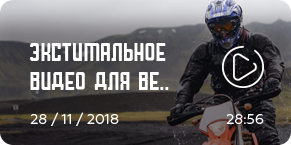
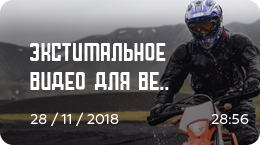
port and footer

diff --git a/index.html b/index.html
@@ -239,10 +239,10 @@
 			</div>
 		</div>
 		<div class='temp hide'>
-			<img src="assets/video2.png" height="100%" width="auto">	
+			<img src="assets/video2.png" height="404" width="auto">	
 			<button class="playbtn js-modal-btn" data-video-id="HMLguRWAMSc"><img src="assets/playbutton.png"></button>
 		</div>
-	</div>	
+	</div>
 </div>
 
 
@@ -301,22 +301,74 @@
 		    	<button id="slideRight" class='scroll'><img src="assets/btns/right.png"></button>
 	    	</div>
 		</div>
+
+
 		<div class='faded'>
 			<div id='overflow'>
-				<button class="play js-modal-btn" id="bookbutton" data-video-id="HMLguRWAMSc"><div><img src="assets/book1.png"></div></button>
-				<div class='d-flex flex-column justify-content-between'>
-					<img src="assets/book2.png">
-					<img src="assets/book3.png">
+				<div class='portfoliocard'>
+					<img src="assets/book1.png">
+					<button class="play js-modal-btn scroll" id="bookbutton" data-video-id="HMLguRWAMSc">
+						<img src="assets/btns/white-play-btn.png">
+					</button>
 				</div>
-				<div><img src="assets/book4.png"></div>
-				<div><img src="assets/book5.png"></div>
-				<div><img src="assets/book1.png"></div>
 				<div class='d-flex flex-column justify-content-between'>
-					<img src="assets/book2.png">
-					<img src="assets/book3.png">
+					<div class='portfoliocard'>
+						<img src="assets/book2.png">
+						<button class="play js-modal-btn scroll" id="bookbutton" data-video-id="HMLguRWAMSc">
+							<img src="assets/btns/white-play-btn.png">
+						</button>
+					</div>
+					<div class='portfoliocard'>
+						<img src="assets/book3.png">
+						<button class="play js-modal-btn scroll" id="bookbutton" data-video-id="HMLguRWAMSc">
+							<img src="assets/btns/white-play-btn.png">
+						</button>
+					</div>
 				</div>
-				<div><img src="assets/book4.png"></div>
-				<div><img src="assets/book5.png"></div>
+				<div class='portfoliocard'>
+					<img src="assets/book4.png">
+					<button class="play js-modal-btn scroll" id="bookbutton" data-video-id="HMLguRWAMSc">
+						<img src="assets/btns/white-play-btn.png">
+					</button>
+				</div>
+				<div class='portfoliocard'>
+					<img src="assets/book5.png">
+					<button class="play js-modal-btn scroll" id="bookbutton" data-video-id="HMLguRWAMSc">
+						<img src="assets/btns/white-play-btn.png">
+					</button>
+				</div>
+				<div class='portfoliocard'>
+					<img src="assets/book1.png">
+					<button class="play js-modal-btn scroll" id="bookbutton" data-video-id="HMLguRWAMSc">
+						<img src="assets/btns/white-play-btn.png">
+					</button>
+				</div>
+				<div class='d-flex flex-column justify-content-between'>
+					<div class='portfoliocard'>
+						<img src="assets/book2.png">
+						<button class="play js-modal-btn scroll" id="bookbutton" data-video-id="HMLguRWAMSc">
+							<img src="assets/btns/white-play-btn.png">
+						</button>
+					</div>
+					<div class='portfoliocard'>
+						<img src="assets/book3.png">
+						<button class="play js-modal-btn scroll" id="bookbutton" data-video-id="HMLguRWAMSc">
+							<img src="assets/btns/white-play-btn.png">
+						</button>
+					</div>
+				</div>
+				<div class='portfoliocard'>
+					<img src="assets/book4.png">
+					<button class="play js-modal-btn scroll" id="bookbutton" data-video-id="HMLguRWAMSc">
+						<img src="assets/btns/white-play-btn.png">
+					</button>
+				</div>
+				<div class='portfoliocard'>
+					<img src="assets/book5.png">
+					<button class="play js-modal-btn scroll" id="bookbutton" data-video-id="HMLguRWAMSc">
+						<img src="assets/btns/white-play-btn.png">
+					</button>
+				</div>
 			</div>
 		</div>	
 

diff --git a/responsive.css b/responsive.css
@@ -4,6 +4,20 @@
 	.orangeblock p{text-align: center;}
 }
 
+@media only screen and (max-width: 950px) {
+	/*ABOUT*/
+
+	/*FOOTER*/
+	footer .container{flex-direction: column;height: 280px}
+	.top{flex-direction: column;margin-top: 30px}
+	.smm{flex-direction: row;margin-top: 15px}
+	.smm li{transform: rotate(0); padding: 0 5px 0 5px;}
+	.trademarks li{font-size: 12px;}
+	.bottom ul{flex-direction: column;text-align: right;margin-top: 20px;}
+	.trademarks li{display:none}
+	.trademarks.mobile li{display:block}
+}
+
 /*TABLETS*/
 @media only screen and (max-width: 768px) {
 
@@ -54,13 +68,7 @@
 	div.swiper-button-next {
 		display: none;}
 
-	/*FOOTER*/
-	footer .container{flex-direction: column;height: 280px}
-	.top{flex-direction: column;margin-top: 30px}
-	.smm{flex-direction: row;margin-top: 15px}
-	.smm li{transform: rotate(0); padding: 0 5px 0 5px;}
-	.trademarks li{font-size: 12px;}
-	.bottom ul{flex-direction: column;text-align: right;margin-top: 20px;}
+
 
 	/*EQUIPMENT*/
 	.s3{flex-direction: column;}
@@ -110,8 +118,7 @@
 		justify-content: space-between}
 	.bottom ul{flex-direction: column;text-align: right}
 	.menu{height: 100%}
-	.trademarks li{display:none}
-	.trademarks.mobile li{display:block}
+
 
 	.container-lg{padding-bottom: 20px;}
 	.bw-logo{padding-top: 30px;}

diff --git a/style.css b/style.css
@@ -373,21 +373,27 @@ nav.navbar.navbar-expand-lg{padding: 0}
   display:inline-block;
   background: linear-gradient(to left, rgba(255,255,255,1) 0%,rgba(255,255,255,0) 100%)}
 
-#overflow div{margin: 16px;width: 255px;}
-
+.portfoliocard{position: relative; margin: 16px;}
 #overflow::-webkit-scrollbar{display:none}
 
-.scroll{border:none;background:0 0}
+#overflow button{
+	padding: 10px;
+	position: absolute;
+	top:0; right: 0;
+}
+
+.scroll{
+	border:none;
+	background:none;
+	transition: 0.2s}
 .scroll:focus{outline: none}
-.scroll:hover{transform: scale(1.2);transition: 0.1s}
+.scroll:hover{transform: scale(1.1);transition: 0.2s}
 .scroll:active{
 	border:none;
 	background:0;
 	outline:none;
-	transition:.1s;
+	transition:.2s;
 	transform:scale(1)}
-
-.portfolio .btn{margin-left:16px;}
 
 /*EQUIPMENT*/
 .equipment{}

diff --git a/main.js b/main.js
@@ -7,10 +7,10 @@ const buttonRight = document.getElementById('slideRight');
 const buttonLeft = document.getElementById('slideLeft');
 
 buttonRight.onclick = function () {
-  document.getElementById('overflow').scrollLeft += 861;
+  document.getElementById('overflow').scrollLeft += 876;
 };
 buttonLeft.onclick = function () {
-  document.getElementById('overflow').scrollLeft -= 861;
+  document.getElementById('overflow').scrollLeft -= 876;
 };
 
 $(".js-modal-btn").modalVideo();
